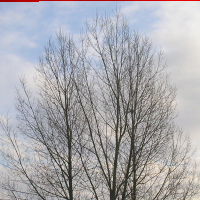
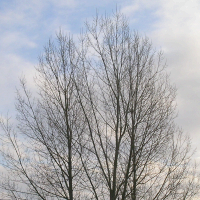
spaghettiEncode now vaisually doesnt change anythin, still does only red values in RGB

Changed region(s): [[0.0, 0.0, 1.0, 0.03]]

diff --git a/encode/spaghettiEncode.py b/encode/spaghettiEncode.py
@@ -22,7 +22,7 @@ def swapBits(swapVal):
 	if widthC < maxW:
 		pixel = carrier.getpixel((widthC,heightC))
 		binRGB = bin(pixel[0])[2:9] + str(swapVal)
-		carrier.putpixel((widthC,heightC),int(binRGB,2))
+		carrier.putpixel((widthC,heightC),(int(binRGB,2),pixel[1],pixel[2]))
 		pixel = carrier.getpixel((widthC,heightC))
 		widthC += 1
 	elif heightC < maxH:
@@ -30,7 +30,7 @@ def swapBits(swapVal):
 		widthC = 0
 		pixel = carrier.getpixel((widthC,heightC))
 		binRGB = bin(pixel[0])[2:9] + str(swapVal)
-		carrier.putpixel((widthC,heightC),int(binRGB,2))
+		carrier.putpixel((widthC,heightC),(int(binRGB,2),pixel[1],pixel[2]))
 		widthC += 1
 	else:
 		print 'too wordy, message doesnt fit'	
